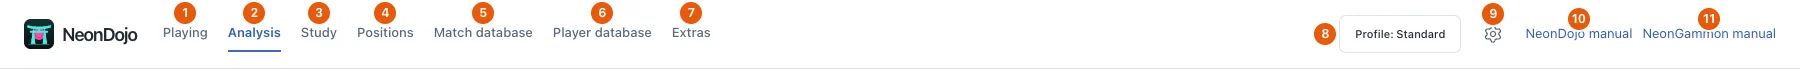
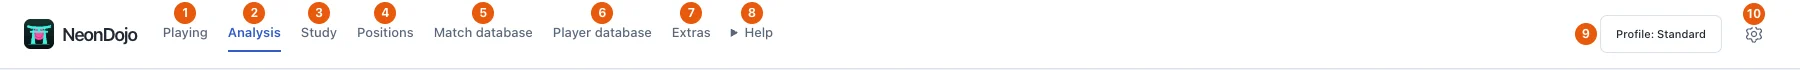
Group the manual links under Help

diff --git a/web/src/app/App.tsx b/web/src/app/App.tsx
@@ -41,6 +41,7 @@ import { useGameNavigation } from './useGameNavigation';
 import { useJobs } from '../shared/jobs/useJobs';
 import { useBackgroundJobs } from './useBackgroundJobs';
 import { useI18n } from '../shared/i18n/i18n';
+import { useDetailsDismiss } from '../shared/hooks/useDetailsDismiss';
 import { useWorkspaceText } from '../shared/i18n/workspace-messages';
 import {
   decodeBulkAnalysisSession,
@@ -121,6 +122,7 @@ const views: View[] = [
 ];
 export default function App() {
   useButtonShortcuts();
+  const helpMenu = useDetailsDismiss();
   const [positionScope, setPositionScope] = useState<'saved' | 'all'>('saved');
   // The decision search stays mounted after its first visit, so its filters
   // and results survive a switch to the saved positions and back.
@@ -507,35 +509,60 @@ export default function App() {
           />
           <span>NeonDojo</span>
         </a>
-        <nav
-          className="app-tabs text-navigation"
-          role="tablist"
-          aria-label={w('navigation')}
-        >
-          {views.map((tab) => (
-            <button
-              key={tab}
-              type="button"
-              role="tab"
-              id={`workspace-tab-${tab}`}
-              aria-controls={`workspace-panel-${tab}`}
-              aria-selected={view === tab}
-              tabIndex={
-                view === tab || (view === 'home' && tab === views[0]) ? 0 : -1
-              }
-              ref={(el) => {
-                tabs.current[tab] = el;
-              }}
-              onKeyDown={(event) => tabKey(event, tab)}
-              onClick={() => {
-                cancelRestoration();
-                setView(tab);
-              }}
-            >
-              {w(tab)}
-            </button>
-          ))}
-        </nav>
+        <div className="app-header-navigation">
+          <nav
+            className="app-tabs text-navigation"
+            role="tablist"
+            aria-label={w('navigation')}
+          >
+            {views.map((tab) => (
+              <button
+                key={tab}
+                type="button"
+                role="tab"
+                id={`workspace-tab-${tab}`}
+                aria-controls={`workspace-panel-${tab}`}
+                aria-selected={view === tab}
+                tabIndex={
+                  view === tab || (view === 'home' && tab === views[0]) ? 0 : -1
+                }
+                ref={(el) => {
+                  tabs.current[tab] = el;
+                }}
+                onKeyDown={(event) => tabKey(event, tab)}
+                onClick={() => {
+                  cancelRestoration();
+                  setView(tab);
+                }}
+              >
+                {w(tab)}
+              </button>
+            ))}
+          </nav>
+          <details
+            className="app-help text-navigation"
+            ref={helpMenu.ref}
+            onKeyDown={helpMenu.onKeyDown}
+          >
+            <summary>{t('app.help')}</summary>
+            <div className="app-help-links">
+              <a
+                href="https://hendrikreh.github.io/neondojo/user-guide/"
+                target="_blank"
+                rel="noreferrer"
+              >
+                {t('app.neondojoManual')}
+              </a>
+              <a
+                href="https://hendrikreh.github.io/neongammon/"
+                target="_blank"
+                rel="noreferrer"
+              >
+                {t('app.neongammonManual')}
+              </a>
+            </div>
+          </details>
+        </div>
         <div className="app-header-actions">
           <ProfileSelector
             onManage={() => {
@@ -553,22 +580,6 @@ export default function App() {
             label={w('settings')}
             compact
           ></ActionButton>
-          <a
-            className="documentation-link"
-            href="https://hendrikreh.github.io/neondojo/user-guide/"
-            target="_blank"
-            rel="noreferrer"
-          >
-            {t('app.neondojoManual')}
-          </a>
-          <a
-            className="documentation-link"
-            href="https://hendrikreh.github.io/neongammon/"
-            target="_blank"
-            rel="noreferrer"
-          >
-            {t('app.neongammonManual')}
-          </a>
         </div>
         <MatchImportInputs importer={importer} />
       </header>

diff --git a/web/e2e/text-navigation.spec.ts b/web/e2e/text-navigation.spec.ts
@@ -235,6 +235,36 @@ test('header tabs follow the workspace order with mouse and keyboard', async ({
   await expect(tabs.nth(5)).toBeFocused();
   await page.keyboard.press('End');
   await expect(tabs.last()).toBeFocused();
+  const help = page.getByRole('banner').getByText('Hilfe', { exact: true });
+  const manuals = [
+    ['NeonDojo-Handbuch', 'https://hendrikreh.github.io/neondojo/user-guide/'],
+    ['NeonGammon-Handbuch', 'https://hendrikreh.github.io/neongammon/'],
+  ] as const;
+  for (const [name] of manuals) {
+    await expect(page.getByRole('link', { name, exact: true })).toBeHidden();
+  }
+  await page.keyboard.press('Tab');
+  await expect(help).toBeFocused();
+  const extrasBox = (await tabs.last().boundingBox())!;
+  const helpBox = (await help.boundingBox())!;
+  expect(helpBox.x).toBe(extrasBox.x + extrasBox.width + 20);
+  expect(helpBox.y).toBe(extrasBox.y);
+  await page.keyboard.press('Enter');
+  for (const [name, href] of manuals) {
+    const link = page.getByRole('link', { name, exact: true });
+    await expect(link).toBeVisible();
+    await expect(link).toHaveAttribute('href', href);
+    await expect(link).toHaveAttribute('target', '_blank');
+    await page.keyboard.press('Tab');
+    await expect(link).toBeFocused();
+  }
+  await page.keyboard.press('Escape');
+  await expect(help).toBeFocused();
+  await expect(page.getByRole('link', { name: manuals[0][0] })).toBeHidden();
+  await help.click();
+  await expect(page.getByRole('link', { name: manuals[0][0] })).toBeVisible();
+  await tabs.last().click();
+  await expect(page.getByRole('link', { name: manuals[0][0] })).toBeHidden();
   await page.keyboard.press('Home');
   await expect(tabs.first()).toBeFocused();
   await expect(tabs.first()).toHaveAttribute('aria-selected', 'true');

diff --git a/web/e2e/user-guide-screenshots.spec.ts b/web/e2e/user-guide-screenshots.spec.ts
@@ -9,12 +9,12 @@ import { mkdirSync, readFileSync } from 'node:fs';
 import { join } from 'node:path';
 import { fileURLToPath } from 'node:url';
 import {
-  test,
+  backendTest as test,
   expect,
   type APIRequestContext,
   type Locator,
   type Page,
-} from '@playwright/test';
+} from './test';
 import type { components } from '../src/generated-api';
 
 type Schemas = components['schemas'];
@@ -504,10 +504,9 @@ test('recapture the user guide screenshots', async ({ page }) => {
           dy: -3,
         }),
       ),
-      { n: 8, loc: header.getByRole('button', { name: /^Profile/ }).first(), at: 'lm', dx: -14 },
-      { n: 9, loc: header.getByRole('button', { name: 'Settings' }), at: 'ct', dy: 2 },
-      { n: 10, loc: header.getByRole('link', { name: 'NeonDojo manual' }), at: 'ct', dy: -5 },
-      { n: 11, loc: header.getByRole('link', { name: 'NeonGammon manual' }), at: 'ct', dy: -5 },
+      { n: 8, loc: header.getByText('Help', { exact: true }), at: 'ct', dy: -3 },
+      { n: 9, loc: header.getByRole('button', { name: /^Profile/ }).first(), at: 'lm', dx: -14 },
+      { n: 10, loc: header.getByRole('button', { name: 'Settings' }), at: 'ct', dy: 2 },
     ]);
     const headerBox = await header.boundingBox();
     await save(page, 'header', {

diff --git a/web/src/app/workspace.css b/web/src/app/workspace.css
@@ -26,24 +26,42 @@
   width: 30px;
   height: 30px;
 }
-.app-tabs {
+.app-header-navigation {
   display: flex;
+  align-items: center;
   gap: 20px;
   flex: 1;
-  flex-wrap: wrap;
 }
 .app-header-actions {
   display: flex;
   gap: 10px;
   flex-wrap: wrap;
 }
-.documentation-link {
-  align-self: center;
-  color: var(--ui-accent);
-  font-size: var(--font-size-body);
+.app-help {
+  position: relative;
 }
-.documentation-link:hover {
-  text-decoration: underline;
+.app-help > summary {
+  cursor: pointer;
+}
+.app-help-links {
+  position: absolute;
+  inset-block-start: calc(100% + 4px);
+  inset-inline-end: 0;
+  z-index: 30;
+  width: max-content;
+  padding: 4px;
+  border: 1px solid var(--ui-border);
+  border-radius: 8px;
+  background: var(--ui-surface);
+  box-shadow: 0 8px 24px var(--ui-shadow);
+}
+.app-help-links a {
+  display: block;
+  padding: 6px 10px;
+  border-radius: 4px;
+}
+.app-help-links a:is(:hover, :focus-visible) {
+  background: var(--ui-surface-alt);
 }
 .settings-trigger {
   display: flex;
@@ -568,7 +586,7 @@
     font-size: var(--font-size-meta);
     padding: 8px;
   }
-  .app-tabs {
+  .app-header-navigation {
     flex-basis: 100%;
     order: 3;
   }

diff --git a/web/src/styles/text-navigation.css b/web/src/styles/text-navigation.css
@@ -17,7 +17,7 @@
   align-items: stretch;
   gap: 8px;
 }
-.app-shell .text-navigation > button {
+.app-shell .text-navigation > :is(button, summary) {
   flex: 0 1 auto;
   border: 0;
   border-bottom: 2px solid transparent;
@@ -32,7 +32,7 @@
   line-height: 1.5;
   text-align: left;
 }
-.app-shell .text-navigation > button:hover:not(:disabled) {
+.app-shell .text-navigation > :is(button, summary):hover:not(:disabled) {
   background: transparent;
   color: var(--ui-accent);
   border-bottom-color: var(--ui-border-strong);
@@ -58,7 +58,7 @@
   border-bottom-color: var(--ui-accent);
   font-weight: var(--font-weight-semibold);
 }
-.app-shell .text-navigation > button:focus-visible {
+.app-shell .text-navigation > :is(button, summary):focus-visible {
   outline: 2px solid var(--ui-accent);
   outline-offset: 4px;
 }

diff --git a/web/src/shared/i18n/locales/de.ts b/web/src/shared/i18n/locales/de.ts
@@ -263,6 +263,7 @@ export default {
     'board.cube': 'Doppler {value}, {owner}',
     'board.centered': 'zentriert',
     'board.themeSource': 'BGBlitz · {name}',
+    'app.help': 'Hilfe',
     'app.neondojoManual': 'NeonDojo-Handbuch',
     'app.neongammonManual': 'NeonGammon-Handbuch',
     'app.home': 'NeonDojo-Startseite',

diff --git a/web/src/shared/i18n/locales/en.ts b/web/src/shared/i18n/locales/en.ts
@@ -256,6 +256,7 @@ export default {
     'board.cube': 'Cube {value}, {owner}',
     'board.centered': 'centered',
     'board.themeSource': 'BGBlitz · {name}',
+    'app.help': 'Help',
     'app.neondojoManual': 'NeonDojo manual',
     'app.neongammonManual': 'NeonGammon manual',
     'app.home': 'NeonDojo home',

diff --git a/docs/user-guide/README.md b/docs/user-guide/README.md
@@ -40,7 +40,7 @@ Tips for a particular level are marked with these labels:
 
 Open NeonDojo in your browser at <http://127.0.0.1:8787>. The header is the same in every workspace.
 
-![The NeonDojo header with its seven workspaces, the profile selector, Settings and both manual links](images/header.webp)
+![The NeonDojo header with its seven workspaces, Help, the profile selector and Settings](images/header.webp)
 
 | # | Header item | What you do there |
 | --- | --- | --- |
@@ -51,10 +51,9 @@ Open NeonDojo in your browser at <http://127.0.0.1:8787>. The header is the same
 | 5 | **Match database** | Import matches, organize them into databases, search, filter, export, and start bulk analyses. |
 | 6 | **Player database** | Look up players, their aliases, PR and match history. |
 | 7 | **Extras** | Run engine benchmarks and engine duels, back up the database, and check versions. |
-| 8 | **Profile** | Switch configuration profiles and see whether the current settings differ from the saved profile. |
-| 9 | **Settings** (gear) | Set the language, appearance, engines, error thresholds, playing defaults and board artwork. |
-| 10 | **NeonDojo manual** | Open this user guide in a new browser tab. |
-| 11 | **NeonGammon manual** | Open the [NeonGammon engine manual](https://hendrikreh.github.io/neongammon/) in a new browser tab. |
+| 8 | **Help** | Choose **NeonDojo manual** or **NeonGammon manual** to open the corresponding guide in a new browser tab. |
+| 9 | **Profile** | Switch configuration profiles and see whether the current settings differ from the saved profile. |
+| 10 | **Settings** (gear) | Set the language, appearance, engines, error thresholds, playing defaults and board artwork. |
 
 Each workspace contains further tabs, as the map below shows.
 
@@ -67,6 +66,7 @@ flowchart LR
   H --> M["Match database"]
   H --> PL["Player database"]
   H --> E["Extras"]
+  H --> HELP["Help"]
   H --> SET["Settings"]
 
   A --> A1["Checker"]
@@ -96,7 +96,7 @@ flowchart LR
   SET --> SET1["General · Appearance · Analysis · Playing · Board · Engines · Profiles"]
 ```
 
-**Keyboard:** Focus a header tab and use **Left**/**Right** to move between workspaces. **Home** selects Playing and **End** selects Extras. The same keys work in the tab rows inside each workspace.
+**Keyboard:** Focus a header tab and use **Left**/**Right** to move between workspaces. **Home** selects Playing and **End** selects Extras. The same keys work in the tab rows inside each workspace. Press **Tab** from the selected workspace tab to reach **Help**, then **Enter** to open it or **Escape** to close it.
 
 **Navigation style:** The current tab is shown with the accent color and an underline. Buttons with an icon show a tooltip when you hover over them or focus them with **Tab**. If a button has a keyboard shortcut, the tooltip names it.
 

diff --git a/docs/reference/analysis.md b/docs/reference/analysis.md
@@ -4,7 +4,7 @@ How the **Analysis** workspace, saved and imported analyses, game plans, error s
 
 ## Analysis workspace
 
-The header lists **Playing**, **Analysis**, **Study**, **Positions**, **Match database**, **Player database**, and **Extras** from left to right, with **Settings** on the right. With a header tab focused, Left and Right select the previous and next tabs. Home selects **Playing** and End selects **Extras**. The first visit opens **Home**. Opening the NeonDojo logo returns there and keeps the analysis selection. Reloading Home keeps the start page visible. Opening the app with a saved analysis selection restores it in **Analysis**. The **Study** workspace is named **Lernen** in German.
+The header lists **Playing**, **Analysis**, **Study**, **Positions**, **Match database**, **Player database**, and **Extras** from left to right. **Help** sits immediately after **Extras** and opens the NeonDojo and NeonGammon manual links. **Settings** is on the right. With a header tab focused, Left and Right select the previous and next tabs. Home selects **Playing** and End selects **Extras**. The first visit opens **Home**. Opening the NeonDojo logo returns there and keeps the analysis selection. Reloading Home keeps the start page visible. Opening the app with a saved analysis selection restores it in **Analysis**. The **Study** workspace is named **Lernen** in German.
 
 Arrow keys and Home/End also navigate the detail tabs. The app restores the last match, game, and position locally. If that match or position no longer exists, the app forgets it and starts from the empty workspace without an error. Switching tabs preserves filters, note drafts, and SSE subscriptions. A submitted job continues to be tracked if you change the selected game or position while the request is pending.
 

diff --git a/docs/ui-navigation.md b/docs/ui-navigation.md
@@ -26,6 +26,9 @@ The header orders its workspaces as Playing, Analysis, Study, Positions,
 Match database, Player database, and Extras. Rendering and keyboard navigation
 share the `views` list in `web/src/app/App.tsx`: Left/Right move through it and
 wrap, and Home/End select the first and last workspace.
+The **Help** dropdown follows **Extras** and contains the two manual links.
+Tab reaches **Help** from the selected workspace tab. Enter opens the dropdown
+and Escape closes it and returns focus to **Help**.
 
 The shared rules live in `web/src/styles/text-navigation.css`, the last stylesheet in
 `web/src/styles/stylesheets.ts`. Local CSS manages surrounding layout and should not reintroduce filled
